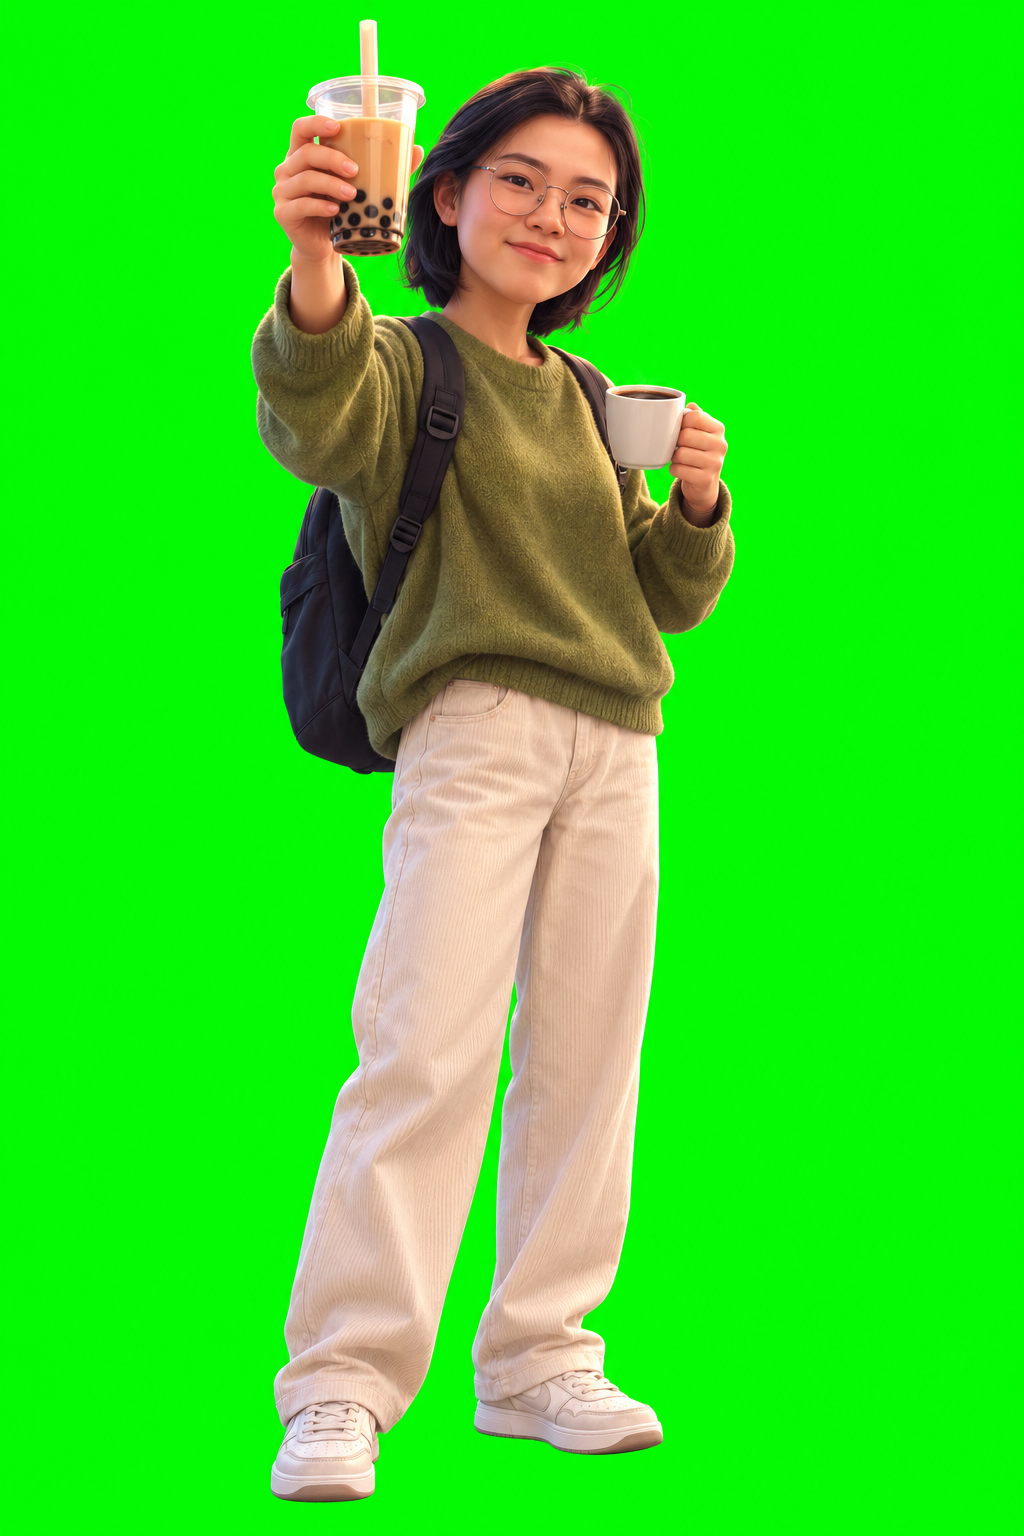
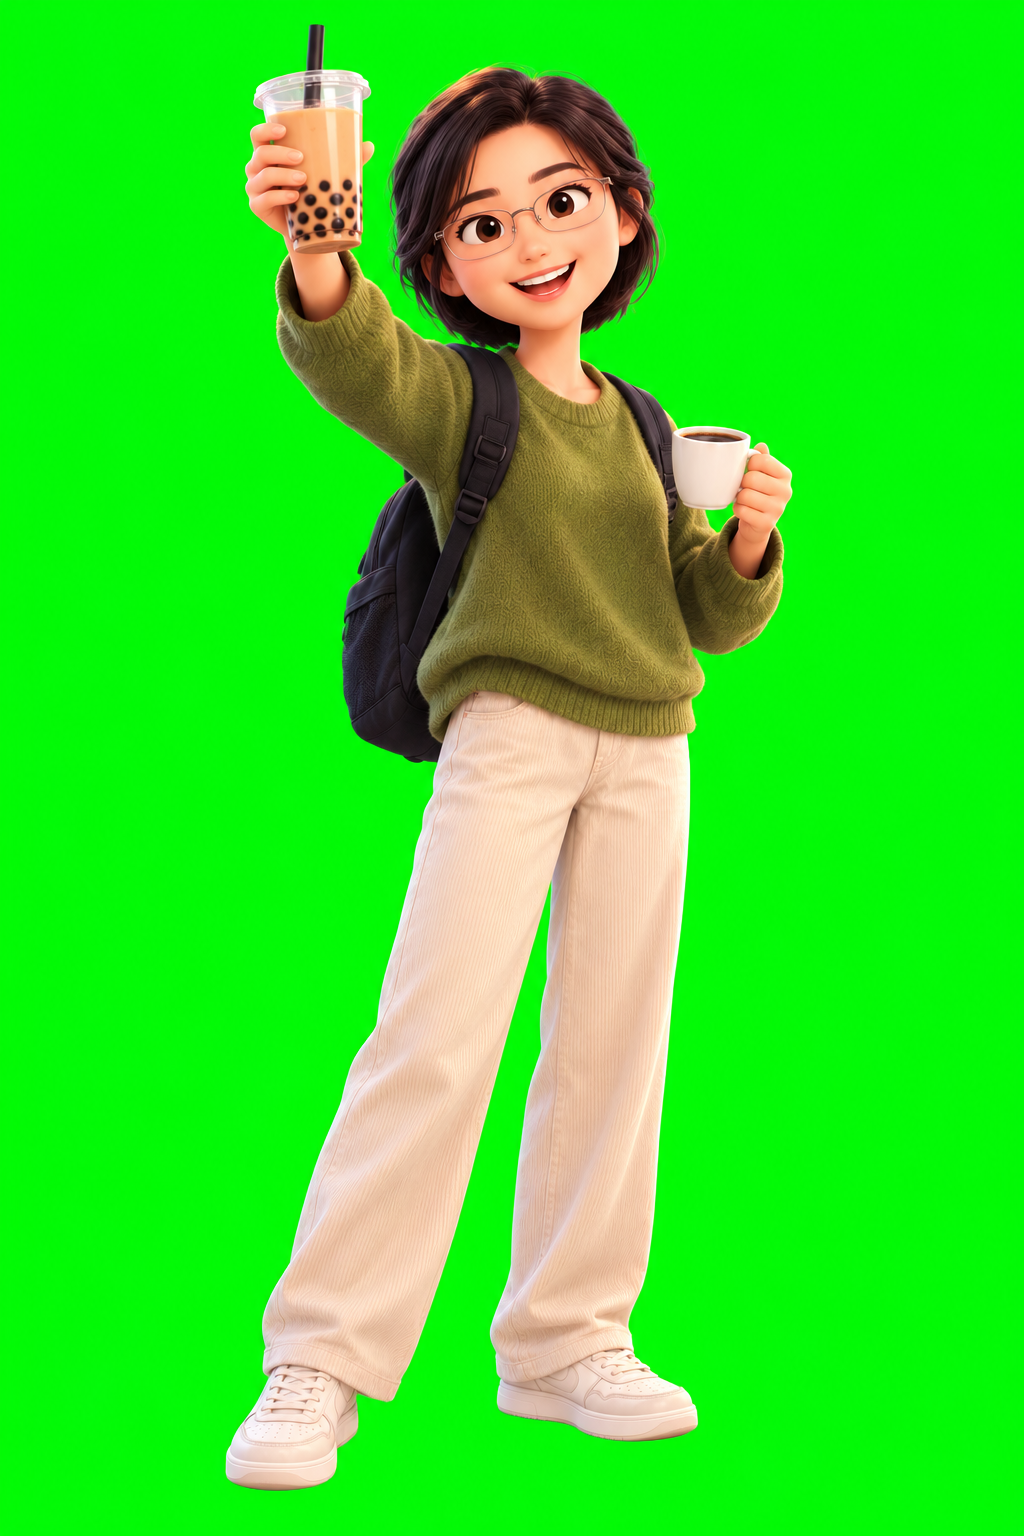
X launch film art: round 2 replaces round 1 (21 member paintings in the film's style, all full body)
Generated with tools/gen_members.py; the round-1 versions stay in history.

Claude-Session: https://claude.ai/code/session_01TGuVbZ16TkJccgtCDX19cw

Changed region(s): [[0.2188, 0.0, 0.7812, 1.0]]

diff --git a/.claude/films/xlaunch/tools/gen_members.py b/.claude/films/xlaunch/tools/gen_members.py
@@ -1,7 +1,7 @@
 #!/usr/bin/env python3
 """Round 2 of the member paintings with Codex's image tool (needs a logged-in `codex` CLI; in a cloud session
 `codex login --device-auth`). Each image gets three references: art/y_toast.png (the film's style, Pixar-like 3D),
-the member's Team-page photo (the face) and their round-1 painting art/m_<name>.png (the outfit, so all of a
+the member's Team-page photo (the face) and their current painting art/m_<name>.png (the outfit, so all of a
 member's images wear the same clothes). Output: art/r2/<file>.png, 1024x1536 on flat #00FF00; logs in logs/.
 With --yufei: the five Yufei poses from her anime short, redrawn in the design of y_toast (pose from the old image).
 usage: python3 tools/gen_members.py [--jobs 3] [--force] [--yufei] [names...]"""
